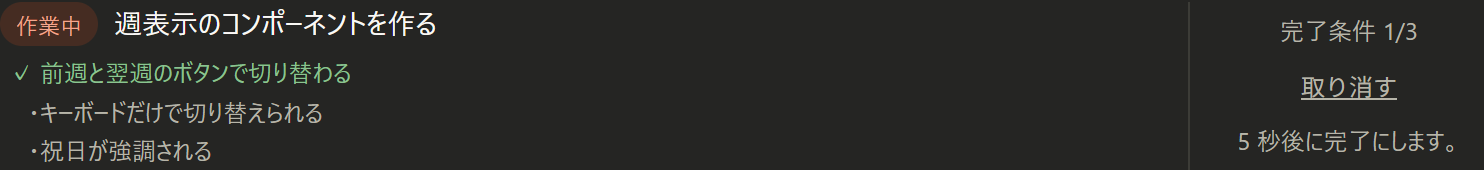
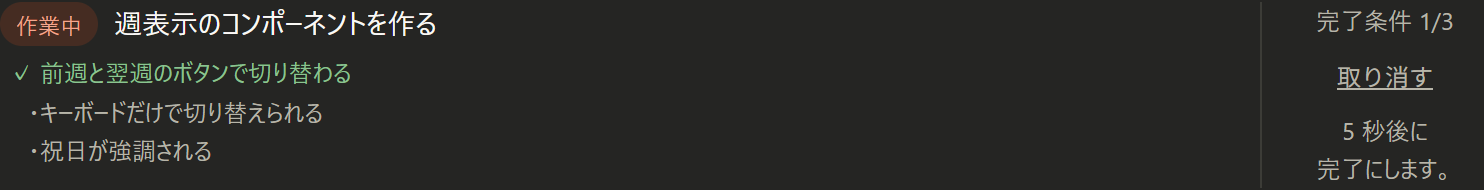
fix(web): タスクの右の列を 112px に狭め、取り消しの案内を 2 行で出す
148px では左の列の題と完了条件が細かく折り返していた。
112px では「5 秒後に完了にします。」が語の途中で折れるため、「5 秒後に」と「完了にします。」の 2 行で表示し、
読み上げは aria-label で 1 文にする。

diff --git a/manual/dist/work.html b/manual/dist/work.html
@@ -135,7 +135,7 @@
   <p>メインセッションは、作業を始めるときにタスクと完了条件を登録します。
   状態や完了条件が変わるたびに、メインセッションが一覧全体を登録し直します。
   ダッシュボードは、登録された内容をそのまま表示します。</p>
-  <figure class="guide-map" id="work-tasks-map" data-guide-map><div class="gm-stage"><div class="gm-image" data-zoom-width="1524"><div class="gm-segment" style="flex-grow:1524;aspect-ratio:1524/324"><div class="gm-clip"><img src="img/work-tasks/list.png" width="762" height="162" alt="タスクと完了条件。見出しの下に、作業中のタスクが 1 件あり、完了条件の一覧が続く。その下に、未着手のタスクと完了したタスクを開くボタンが並ぶ" loading="lazy" decoding="async"></div><a class="gm-badge gm-place-top" data-gm="1" href="#work-tasks-map-1" style="left:50%;top:0.617%" aria-label="1. 見出し">1</a><a class="gm-badge gm-place-top" data-gm="2" href="#work-tasks-map-2" style="left:4.528%;top:21.296%" aria-label="2. 状態の札">2</a><a class="gm-badge gm-place-top" data-gm="3" href="#work-tasks-map-3" style="left:19.39%;top:20.679%" aria-label="3. 題">3</a><a class="gm-badge gm-place-top" data-gm="4" href="#work-tasks-map-4" style="left:89.829%;top:30.247%" aria-label="4. 完了条件の数">4</a><a class="gm-badge gm-place-top" data-gm="5" href="#work-tasks-map-5" style="left:89.829%;top:43.519%" aria-label="5. 完了にする">5</a><a class="gm-badge gm-place-top" data-gm="6" href="#work-tasks-map-6" style="left:39.501%;top:37.346%" aria-label="6. 完了条件の一覧">6</a><a class="gm-badge gm-place-bottom" data-gm="7" href="#work-tasks-map-7" style="left:10.531%;top:100%" aria-label="7. 未着手のタスクの開閉">7</a><a class="gm-badge gm-place-bottom" data-gm="8" href="#work-tasks-map-8" style="left:31.332%;top:100%" aria-label="8. 完了したタスクの開閉">8</a></div></div></div><ol class="gm-list"><li id="work-tasks-map-1" data-gm="1"><span class="gm-num" aria-hidden="true">1</span><div class="gm-body"><b>見出し</b>：<span class="ui">タスクと完了条件</span> の欄です。続けて、タスクの一覧を最後に登録してからの時間が、<span class="ui">最終更新</span> として出ます。</div></li><li id="work-tasks-map-2" data-gm="2"><span class="gm-num" aria-hidden="true">2</span><div class="gm-body"><b>状態の札</b>：<span class="ui">未着手</span>、<span class="ui">作業中</span>、<span class="ui">完了</span> のどれかです。</div></li><li id="work-tasks-map-3" data-gm="3"><span class="gm-num" aria-hidden="true">3</span><div class="gm-body"><b>題</b>：タスクの題です。</div></li><li id="work-tasks-map-4" data-gm="4"><span class="gm-num" aria-hidden="true">4</span><div class="gm-body"><b>完了条件の数</b>：満たした条件の数と、条件の総数です。<span class="ui">完了条件</span> に続けて「1/3」のように出ます。</div></li><li id="work-tasks-map-5" data-gm="5"><span class="gm-num" aria-hidden="true">5</span><div class="gm-body"><b><span class="ui">完了にする</span></b>：未完了のタスクを、画面から完了にします(<a href="#work-task-close">タスクを画面で完了にする</a>)。</div></li><li id="work-tasks-map-6" data-gm="6"><span class="gm-num" aria-hidden="true">6</span><div class="gm-body"><b>完了条件の一覧</b>：満たした条件は、先頭に ✓ が付き、緑で出ます。</div></li><li id="work-tasks-map-7" data-gm="7"><span class="gm-num" aria-hidden="true">7</span><div class="gm-body"><b>未着手のタスクの開閉</b>：畳んでいる未着手のタスクを開きます。ボタンには、畳んでいる件数が出ます。開くと文言が変わり、もう一度押すと畳みます。</div></li><li id="work-tasks-map-8" data-gm="8"><span class="gm-num" aria-hidden="true">8</span><div class="gm-body"><b>完了したタスクの開閉</b>：畳んでいる完了したタスクを開きます。ボタンには、畳んでいる件数が出ます。開くと文言が変わり、もう一度押すと畳みます。</div></li></ol></figure>
+  <figure class="guide-map" id="work-tasks-map" data-guide-map><div class="gm-stage"><div class="gm-image" data-zoom-width="1524"><div class="gm-segment" style="flex-grow:1524;aspect-ratio:1524/324"><div class="gm-clip"><img src="img/work-tasks/list.png" width="762" height="162" alt="タスクと完了条件。見出しの下に、作業中のタスクが 1 件あり、完了条件の一覧が続く。その下に、未着手のタスクと完了したタスクを開くボタンが並ぶ" loading="lazy" decoding="async"></div><a class="gm-badge gm-place-top" data-gm="1" href="#work-tasks-map-1" style="left:50%;top:0.617%" aria-label="1. 見出し">1</a><a class="gm-badge gm-place-top" data-gm="2" href="#work-tasks-map-2" style="left:4.528%;top:21.296%" aria-label="2. 状態の札">2</a><a class="gm-badge gm-place-top" data-gm="3" href="#work-tasks-map-3" style="left:19.39%;top:20.679%" aria-label="3. 題">3</a><a class="gm-badge gm-place-top" data-gm="4" href="#work-tasks-map-4" style="left:92.192%;top:30.247%" aria-label="4. 完了条件の数">4</a><a class="gm-badge gm-place-top" data-gm="5" href="#work-tasks-map-5" style="left:92.192%;top:43.519%" aria-label="5. 完了にする">5</a><a class="gm-badge gm-place-top" data-gm="6" href="#work-tasks-map-6" style="left:41.864%;top:37.346%" aria-label="6. 完了条件の一覧">6</a><a class="gm-badge gm-place-bottom" data-gm="7" href="#work-tasks-map-7" style="left:10.531%;top:100%" aria-label="7. 未着手のタスクの開閉">7</a><a class="gm-badge gm-place-bottom" data-gm="8" href="#work-tasks-map-8" style="left:31.332%;top:100%" aria-label="8. 完了したタスクの開閉">8</a></div></div></div><ol class="gm-list"><li id="work-tasks-map-1" data-gm="1"><span class="gm-num" aria-hidden="true">1</span><div class="gm-body"><b>見出し</b>：<span class="ui">タスクと完了条件</span> の欄です。続けて、タスクの一覧を最後に登録してからの時間が、<span class="ui">最終更新</span> として出ます。</div></li><li id="work-tasks-map-2" data-gm="2"><span class="gm-num" aria-hidden="true">2</span><div class="gm-body"><b>状態の札</b>：<span class="ui">未着手</span>、<span class="ui">作業中</span>、<span class="ui">完了</span> のどれかです。</div></li><li id="work-tasks-map-3" data-gm="3"><span class="gm-num" aria-hidden="true">3</span><div class="gm-body"><b>題</b>：タスクの題です。</div></li><li id="work-tasks-map-4" data-gm="4"><span class="gm-num" aria-hidden="true">4</span><div class="gm-body"><b>完了条件の数</b>：満たした条件の数と、条件の総数です。<span class="ui">完了条件</span> に続けて「1/3」のように出ます。</div></li><li id="work-tasks-map-5" data-gm="5"><span class="gm-num" aria-hidden="true">5</span><div class="gm-body"><b><span class="ui">完了にする</span></b>：未完了のタスクを、画面から完了にします(<a href="#work-task-close">タスクを画面で完了にする</a>)。</div></li><li id="work-tasks-map-6" data-gm="6"><span class="gm-num" aria-hidden="true">6</span><div class="gm-body"><b>完了条件の一覧</b>：満たした条件は、先頭に ✓ が付き、緑で出ます。</div></li><li id="work-tasks-map-7" data-gm="7"><span class="gm-num" aria-hidden="true">7</span><div class="gm-body"><b>未着手のタスクの開閉</b>：畳んでいる未着手のタスクを開きます。ボタンには、畳んでいる件数が出ます。開くと文言が変わり、もう一度押すと畳みます。</div></li><li id="work-tasks-map-8" data-gm="8"><span class="gm-num" aria-hidden="true">8</span><div class="gm-body"><b>完了したタスクの開閉</b>：畳んでいる完了したタスクを開きます。ボタンには、畳んでいる件数が出ます。開くと文言が変わり、もう一度押すと畳みます。</div></li></ol></figure>
   <details class="more">
     <summary>タスクの行の折り返しの詳細</summary>
     <p>タスクの行は左右の 2 列です。題と完了条件の一覧は左の列の中で折り返し、完了条件の数と <span class="ui">完了にする</span> は右の列に縦に並びます。
@@ -161,7 +161,7 @@
   <p><span class="ui">完了にする</span> を押すと、そのタスクを完了にします。
   押した直後は完了にせず、5 秒の間は取り消せます。
   この間、ボタンは <span class="ui">取り消す</span> に変わり、<span class="ui">5 秒後に完了にします。</span> と出ます。</p>
-  <figure class="guide-map" id="work-task-close-map" data-guide-map><div class="gm-stage"><div class="gm-image" data-zoom-width="1484"><div class="gm-segment" style="flex-grow:1484;aspect-ratio:1484/170"><div class="gm-clip"><img src="img/work-tasks/closing.png" width="742" height="85" alt="完了にするを押した直後のタスクの行。右の列に、完了条件の数、取り消すのボタン、5 秒後に完了にしますの文が縦に並ぶ" loading="lazy" decoding="async"></div><a class="gm-badge gm-place-top" data-gm="1" href="#work-task-close-map-1" style="left:90.903%;top:31.765%" aria-label="1. 取り消す">1</a><a class="gm-badge gm-place-top" data-gm="2" href="#work-task-close-map-2" style="left:90.869%;top:71.765%" aria-label="2. 案内の文">2</a></div></div></div><ol class="gm-list"><li id="work-task-close-map-1" data-gm="1"><span class="gm-num" aria-hidden="true">1</span><div class="gm-body"><b><span class="ui">取り消す</span></b>：完了にする操作をやめます。</div></li><li id="work-task-close-map-2" data-gm="2"><span class="gm-num" aria-hidden="true">2</span><div class="gm-body"><b>案内の文</b>：<span class="ui">5 秒後に完了にします。</span> と出て、5 秒たつと完了にします。</div></li></ol></figure>
+  <figure class="guide-map" id="work-task-close-map" data-guide-map><div class="gm-stage"><div class="gm-image" data-zoom-width="1484"><div class="gm-segment" style="flex-grow:1484;aspect-ratio:1484/190"><div class="gm-clip"><img src="img/work-tasks/closing.png" width="742" height="95" alt="完了にするを押した直後のタスクの行。右の列に、完了条件の数、取り消すのボタン、5 秒後に完了にしますの文が縦に並ぶ" loading="lazy" decoding="async"></div><a class="gm-badge gm-place-top" data-gm="1" href="#work-task-close-map-1" style="left:93.329%;top:23.158%" aria-label="1. 取り消す">1</a><a class="gm-badge gm-place-top" data-gm="2" href="#work-task-close-map-2" style="left:93.295%;top:58.947%" aria-label="2. 案内の文">2</a></div></div></div><ol class="gm-list"><li id="work-task-close-map-1" data-gm="1"><span class="gm-num" aria-hidden="true">1</span><div class="gm-body"><b><span class="ui">取り消す</span></b>：完了にする操作をやめます。</div></li><li id="work-task-close-map-2" data-gm="2"><span class="gm-num" aria-hidden="true">2</span><div class="gm-body"><b>案内の文</b>：<span class="ui">5 秒後に完了にします。</span> と出て、5 秒たつと完了にします。</div></li></ol></figure>
   <p>画面で完了にしたタスクは、右の列の完了条件の数の下に <span class="ui">画面で完了にした</span> が出ます。
   タスクの完了は、「前回見てから」にも、タスクが完了した変化として載ります(<a href="away.html#away-since-seen">前回見てから</a>)。</p>
   <details class="more">

diff --git a/mock/index.html b/mock/index.html
@@ -181,9 +181,10 @@ h3.sub .count { font-weight: normal; }
 /* PR の行と同じく、文字は左の列で折り返し、完了条件の数と完了にするは右の列に縦に積む。 */
 .task-body { display: flex; gap: 12px; align-items: stretch; }
 .task-text { flex: 1 1 auto; min-width: 0; }
-.task-actions { flex: none; width: 148px; padding-left: 12px; border-left: 1px solid var(--border); display: flex; flex-direction: column; justify-content: center; align-items: center; gap: 2px; text-align: center; font-size: 12px; }
+.task-actions { flex: none; width: 112px; padding-left: 12px; border-left: 1px solid var(--border); display: flex; flex-direction: column; justify-content: center; align-items: center; gap: 2px; text-align: center; font-size: 12px; }
 .task-actions .link-btn { color: var(--text-2); font-size: 12px; }
 .task-actions .link-btn:hover { color: var(--text); }
+.close-note > span { display: block; }
 .task .line { display: flex; gap: 4px 8px; align-items: baseline; min-width: 0; }
 .task .line > * { flex: none; }
 .task .line > .title, .task .line > .prod-tag, .task .line > .session-tag { flex: 0 1 auto; min-width: 0; overflow-wrap: anywhere; }
@@ -1263,7 +1264,7 @@ function taskItem(p, session, t, withTag) {
   const key = closedTaskKey(session, t);
   const pending = pendingClosedTasks.has(key);
   const close = state === 'done' ? '' : pending
-    ? `<button type="button" class="link-btn" data-cancel-close-task="${esc(key)}">取り消す</button><span class="meta">5 秒後に完了にします。</span>`
+    ? `<button type="button" class="link-btn" data-cancel-close-task="${esc(key)}">取り消す</button><span class="meta close-note" aria-label="5 秒後に完了にします。"><span>5 秒後に</span><span>完了にします。</span></span>`
     : `<button type="button" class="link-btn" data-close-task="${esc(key)}">完了にする</button>`;
   return `<li class="task ${state}"><div class="task-body"><div class="task-text">
     <div class="line"><span class="state ${state}">${label}</span>${sessionTag(p, session, withTag)}

diff --git a/src/web/index.html b/src/web/index.html
@@ -204,9 +204,10 @@ h3.sub { font-size: 13px; color: var(--text-2); margin: 14px 0 6px; }
 /* PR の行と同じく、文字は左の列で折り返し、完了条件の数と完了にするは右の列に縦に積む。 */
 .task-body { display: flex; gap: 12px; align-items: stretch; }
 .task-text { flex: 1 1 auto; min-width: 0; }
-.task-actions { flex: none; width: 148px; padding-left: 12px; border-left: 1px solid var(--border); display: flex; flex-direction: column; justify-content: center; align-items: center; gap: 2px; text-align: center; font-size: 12px; }
+.task-actions { flex: none; width: 112px; padding-left: 12px; border-left: 1px solid var(--border); display: flex; flex-direction: column; justify-content: center; align-items: center; gap: 2px; text-align: center; font-size: 12px; }
 .task-actions .link-btn { color: var(--text-2); font-size: 12px; }
 .task-actions .link-btn:hover { color: var(--text); }
+.close-note > span { display: block; }
 .task-head { display: flex; align-items: baseline; gap: 6px 8px; }
 .task-head > * { flex: none; }
 .task-head > .prod-tag, .task-head > .session-tag { flex: 0 1 auto; min-width: 0; }
@@ -2785,7 +2786,13 @@ function appendTaskItem(list, task, product, session, withTags = false, multiple
     if (pending) close.dataset.cancelCloseTask = closeKey;
     else if (!sending) close.dataset.closeTask = closeKey;
     actions.append(close);
-    if (pending) actions.append(element('span', 'meta', '5 秒後に完了にします。'));
+    if (pending) {
+      // 右の列の幅では文の途中で折れるため、区切りの良い位置で 2 行に分け、読み上げは 1 文にする。
+      const note = element('span', 'meta close-note');
+      note.setAttribute('aria-label', '5 秒後に完了にします。');
+      note.append(element('span', '', '5 秒後に'), element('span', '', '完了にします。'));
+      actions.append(note);
+    }
   }
   text.append(header);
   if (task.criteria.length) {

diff --git a/test/dashboard-display.test.js b/test/dashboard-display.test.js
@@ -110,7 +110,7 @@ test('モックに合わせた配色、札、タスク行を表示する', () =>
     assert.equal(Object.fromEntries(cssDeclarations(source, `${row} > *`)).flex, 'none');
     assert.match(source, new RegExp(`${title.replace(/[.*+?^${}()|[\]\\]/g, '\\$&')}[^{]*\\{[^}]*flex: 0 1 auto; min-width: 0;`));
   }
-  for (const selector of ['.task-body', '.task-text', '.task-actions', '.task-actions .link-btn', '.task-actions .link-btn:hover', '.pr-body', '.pr-text','.pr-text > .badges', '.pr-actions', '.pr-actions .merge-btn, .pr-actions .conflict-btn', '.merge-state', '.merge-state.ok', '.pr .pline', '.pr .pline > *', '.pr .pline > .ptitle']) {
+  for (const selector of ['.task-body', '.task-text', '.task-actions', '.task-actions .link-btn', '.task-actions .link-btn:hover', '.close-note > span', '.pr-body', '.pr-text','.pr-text > .badges', '.pr-actions', '.pr-actions .merge-btn, .pr-actions .conflict-btn', '.merge-state', '.merge-state.ok', '.pr .pline', '.pr .pline > *', '.pr .pline > .ptitle']) {
     assert.deepEqual(cssDeclarations(web, selector), cssDeclarations(mock, selector), `${selector} はモックとそろえる`);
   }
   assert.equal(Object.fromEntries(cssDeclarations(web, '.pr-text'))['min-width'], '0', '題は左の列の中で折り返す');
